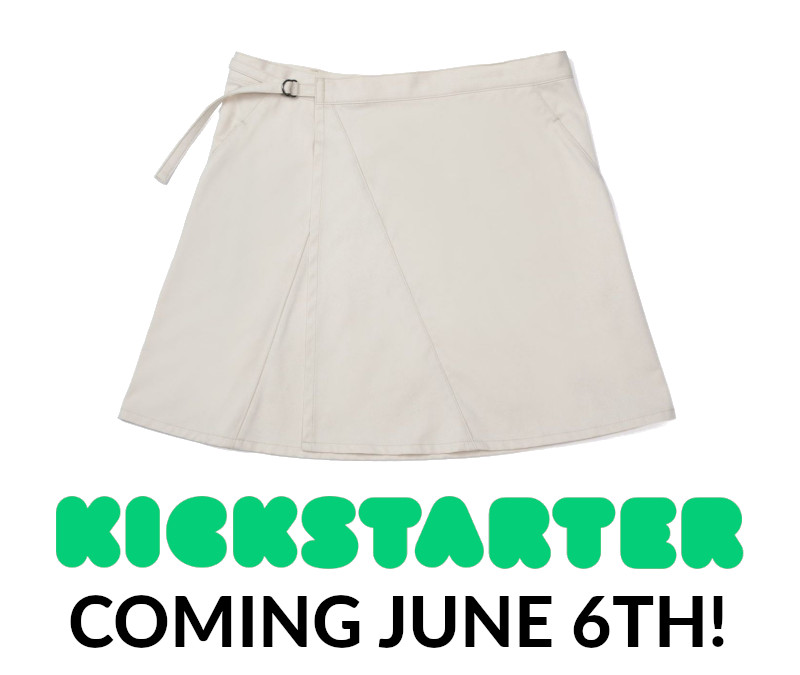
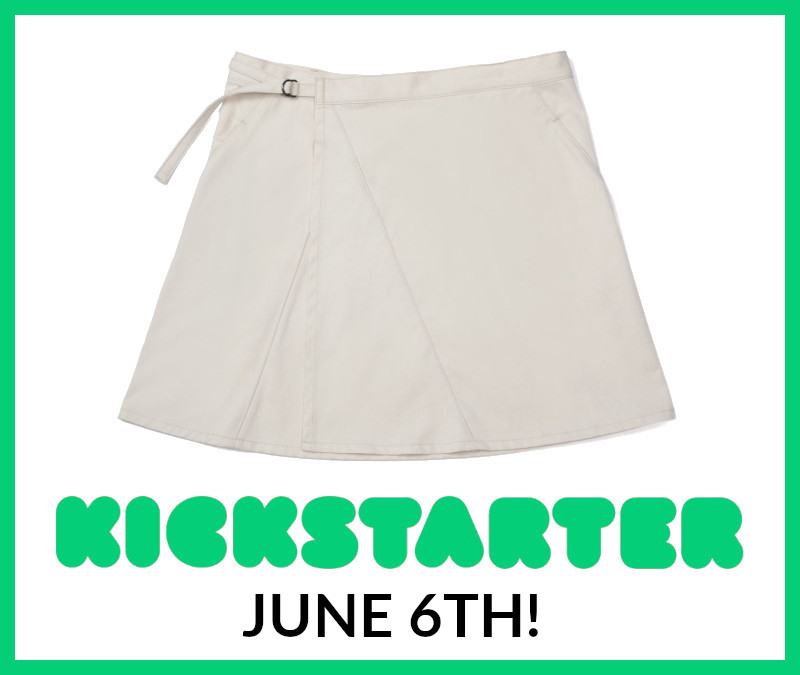
Add border to Tellurian coming soon product tile; add ratings

Changed region(s): [[0.0, 0.0, 1.0, 1.0]]

diff --git a/src/ratings/ratingsUnaligned.ts b/src/ratings/ratingsUnaligned.ts
@@ -777,4 +777,14 @@ export const RATINGS_UNALIGNED: Rating[] = [
     name: 'Jolyon',
     review: 'Skirtcraft is doing a superb job. Keep on doing it.',
   },
+  {
+    date: '2023-04-13',
+    ratingStars: 5,
+    name: 'middle-aged lady with a slight tum',
+  },
+  {
+    date: '2023-06-01',
+    ratingStars: 5,
+    name: 'Brett in Cleveland',
+  },
 ];

diff --git a/src/ratings/ratingsAqueous.ts b/src/ratings/ratingsAqueous.ts
@@ -216,4 +216,13 @@ export const RATINGS_AQUEOUS: Rating[] = [
     name: 'Jolyon',
     review: 'Skirtcraft is doing a superb job. Keep on doing it.',
   },
+  {
+    date: '2023-04-14',
+    ratingStars: 5,
+  },
+  {
+    date: '2023-06-01',
+    ratingStars: 5,
+    name: 'Brett in Cleveland',
+  },
 ];
